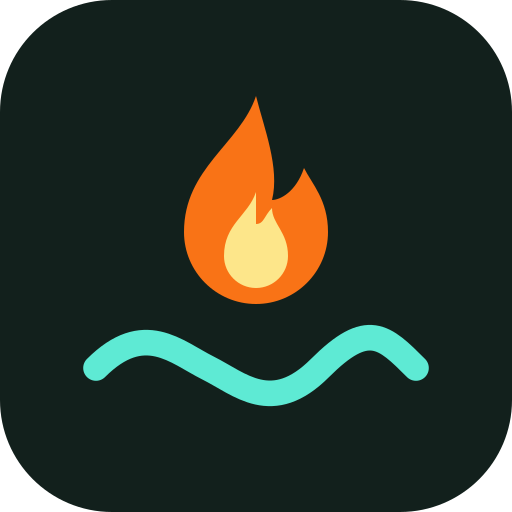
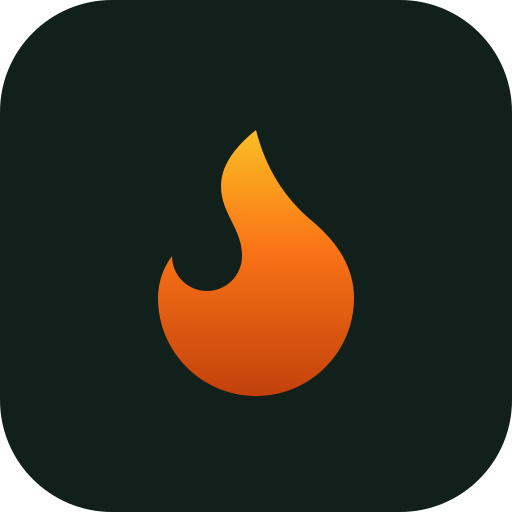
feat(identité): la flamme Lucide, de la braise à l'ambre
NOUVELLE MARQUE. Une flamme pleine en dégradé vertical — braise en bas,
ambre en haut — dans la pastille vert sombre. Elle remplace la flamme sur
une vague dessinée à la main.

LA SILHOUETTE VIENT DE LUCIDE (icône `flame`, licence ISC), le jeu
d'icônes dont l'interface entière est faite : la marque parle enfin la
même langue que les cinquante icônes de l'application, au lieu d'être un
dessin isolé à côté d'elles.

ELLE EST REMPLIE, PAS TRACÉE. Lucide dessine au trait. Vérifié dans le
navigateur avant de choisir : la remplir donne la même silhouette sous
`nonzero` et sous `evenodd`, et fait disparaître la boucle intérieure. Au
trait, la marque pesait moins que les icônes voisines sur un écran
d'accueil — une icône de logo n'est pas une icône d'interface.

LA TUILE RESTE UNIE, LE DÉGRADÉ EST SUR LA FLAMME, et ce n'est pas un
choix d'esthète : le maskable est fabriqué en comblant le pourtour d'une
COULEUR UNIE (option `bg`, 18,32,28). Une tuile en dégradé rendrait ce
raccord impossible et poserait un liseré autour de l'icône installée —
exactement le défaut corrigé la veille, dans l'autre sens.

MESURÉ SUR LES PNG ENGENDRÉS, parce qu'un dégradé peut ne pas survivre à
la rastérisation : haut de flamme 250,169,32, bas 216,85,16, coin du
maskable 18,32,28. Le dégradé passe, et le raccord est exact.

Un détail qui a coûté un aller-retour : l'option `bg` ne peut pas
s'écrire avec ses deux tirets dans un commentaire du SVG — XML interdit
[…]

Changed region(s): [[0.1562, 0.1875, 0.8438, 0.8125]]

diff --git a/README.md b/README.md
@@ -32,18 +32,30 @@ sa carte « Source de vérité » dans les **Réglages** — on l'y consulte, il
 s'impose plus à chaque ouverture de l'accueil, où le sous-titre de la saison
 dit déjà s'il s'agit d'une démonstration.
 
-L'identité visuelle est **originale** — terre, feu, océan, jungle. Aucun logo,
-totem, photographie, extrait ou élément graphique de l'émission n'est reproduit.
+L'identité visuelle ne doit **rien à l'émission** — terre, feu, océan, jungle.
+Aucun logo, totem, photographie, extrait ou élément graphique n'est reproduit.
 
-**Un seul logo, un seul fichier.** `public/favicon.svg` — une flamme sur une
-vague, dans une pastille — est la source unique : l'en-tête le sert tel quel,
-et `npm run icons` en tire tous les PNG du manifeste. L'en-tête portait
-auparavant une flamme de `lucide`, contour générique sans vague ni pastille,
-d'où trois marques différentes selon qu'on regardait le site, l'onglet ou
-l'application installée. Le fond du `--maskable` reprend la couleur de la
-pastille (`18,32,28`) et non le défaut du socle (`12,18,34`), sans quoi
-l'icône installée montrait un cadre bleu-noir autour d'une pastille
-vert-noir.
+**Un seul logo, un seul fichier.** `public/favicon.svg` — une flamme pleine,
+de la braise à l'ambre, dans une pastille vert sombre — est la source unique :
+l'en-tête le sert tel quel, et `npm run icons` en tire tous les PNG du
+manifeste. Trois détails qui font tenir l'ensemble :
+
+- **la silhouette vient de Lucide** (icône `flame`, licence ISC), le jeu
+  d'icônes dont l'interface entière est faite : la marque parle la même langue
+  que les cinquante icônes de l'application ;
+- **elle est remplie, pas tracée.** Lucide dessine au trait ; vérifié dans le
+  navigateur, la remplir donne la même silhouette sous `nonzero` et sous
+  `evenodd` et fait disparaître la boucle intérieure. Au trait, la marque
+  pesait moins que les icônes voisines sur un écran d'accueil ;
+- **la tuile reste unie, le dégradé est sur la flamme.** Le maskable est
+  fabriqué en comblant le pourtour d'une **couleur unie** — l'option `bg`, à
+  `18,32,28`, la teinte exacte de la pastille, et non le défaut du socle
+  (`12,18,34`) qui posait un cadre bleu-noir autour d'un vert-noir. Une tuile
+  en dégradé rendrait ce raccord impossible.
+
+Mesuré sur les PNG engendrés : haut de flamme `250,169,32`, bas `216,85,16`,
+coin du maskable `18,32,28` — le dégradé survit à la rastérisation, et le
+raccord est exact.
 
 **Les portraits des candidats ne font pas exception.** L'application n'en
 distribue aucun et n'en télécharge aucun : chaque candidat porte une vignette
